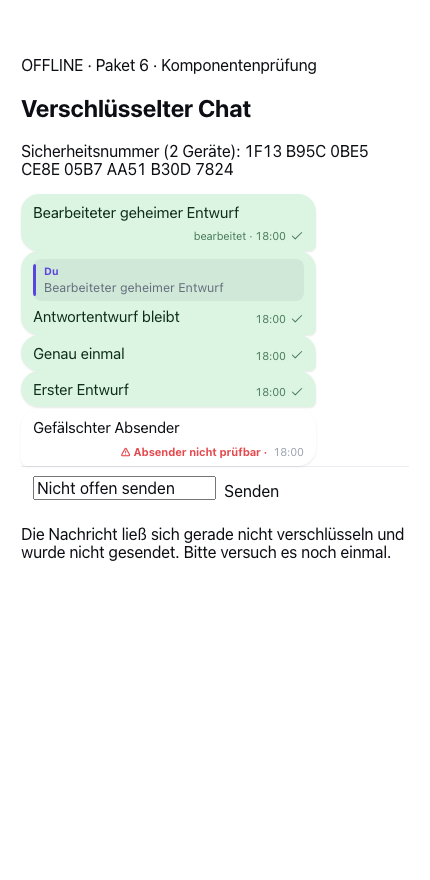
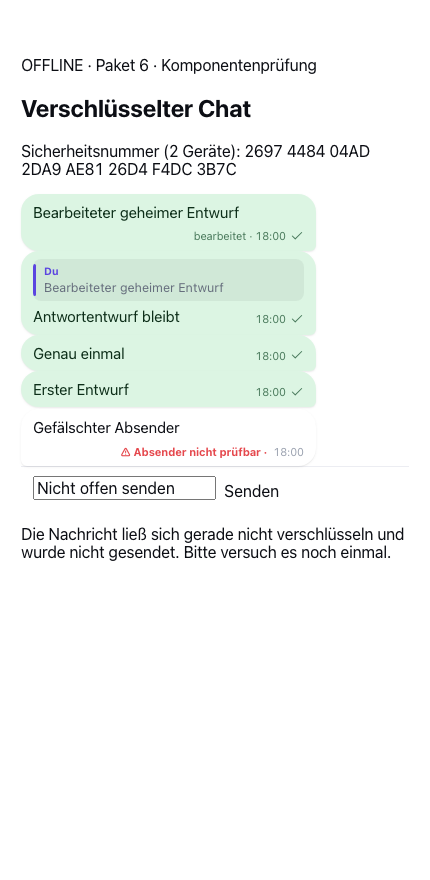
Zwischenstand: Krypto-Migration nach Abbruch und Weiterleitung vorvalidieren
Regressionen 7/7; Offlinegruppen 9/9; Browser 26/26. Live und native Gesamtabnahme weiterhin offen.

Changed region(s): [[0.0605, 0.1841, 0.5442, 0.2148], [0.5744, 0.1534, 0.8767, 0.1841]]

diff --git a/web/public/krypto.js b/web/public/krypto.js
@@ -72,9 +72,13 @@
     for (const id of konten) {
       if (!id) continue;
       const f = faecher(id);
-      if (localStorage.getItem(f.geheim)) continue;
-      localStorage.setItem(f.geheim, altGeheim);
-      if (altGeraet) localStorage.setItem(f.geraet, altGeraet);
+      const vorhanden = localStorage.getItem(f.geheim);
+      if (vorhanden && vorhanden !== altGeheim) continue;
+      if (!vorhanden) localStorage.setItem(f.geheim, altGeheim);
+      // Nach einem Abbruch zwischen beiden Schreibvorgängen das Paar ergänzen.
+      if (altGeraet && !localStorage.getItem(f.geraet)) {
+        localStorage.setItem(f.geraet, altGeraet);
+      }
     }
     localStorage.removeItem(ALT_SCHLUESSEL_FACH);
     localStorage.removeItem(ALT_GERAET_FACH);
@@ -133,7 +137,9 @@
       try {
         if (!kontoId) throw new Error('Kein Konto angemeldet');
         const f = faecher(kontoId);
-        if (!localStorage.getItem(f.geheim)) altbestandUebernehmen(kontoId);
+        if (!localStorage.getItem(f.geheim) || !localStorage.getItem(f.geraet)) {
+          altbestandUebernehmen(kontoId);
+        }
         let geheim = localStorage.getItem(f.geheim);
         if (!geheim) {
           geheim = Krypto.schluesselpaarErzeugen().geheim;

diff --git a/app/lib/aktionen.ts b/app/lib/aktionen.ts
@@ -2884,12 +2884,18 @@ export async function nachrichtWeiterleiten(
    * hat seine eigenen Geräte und bekommt damit eine eigene Chiffre. Ein
    * Insert über alle Ziele könnte nur eine einzige tragen.
    *
-   * Lässt sich ein Ziel nicht verschlüsseln, obwohl es müsste, wirft
-   * `fuerChatVerschliessen` (AR-05) und die übrigen Ziele bleiben aus — die
-   * Meldung nennt den Grund, statt dass eines davon still offen ankommt.
+   * Alle Ziele vor dem ersten Schreiben prüfen und verschließen. Scheitert
+   * ein Ziel an fehlenden Schlüsseln oder Mitgliedern, bleibt auch bei den
+   * vorherigen Zielen alles aus. Ein späterer Schreibfehler kann weiterhin
+   * einen Teilabschluss erzeugen; mehrere Requests sind keine Transaktion.
    */
+  const plan = [];
   for (const chat_id of chatIds) {
     const paket = await fuerChatVerschliessen(client, chat_id, ichId, text);
+    plan.push({ chat_id, paket });
+  }
+
+  for (const { chat_id, paket } of plan) {
     const { data: neue, error: fehler } = await client
       .from('messages')
       .insert({

diff --git a/app/lib/krypto.ts b/app/lib/krypto.ts
@@ -109,9 +109,13 @@ async function altbestandUebernehmen(kontoId: string): Promise<void> {
 
   for (const id of konten) {
     const f = faecher(id);
-    if (await SecureStore.getItemAsync(f.geheim)) continue;
-    await SecureStore.setItemAsync(f.geheim, altGeheim);
-    if (altGeraet) await SecureStore.setItemAsync(f.geraet, altGeraet);
+    const vorhanden = await SecureStore.getItemAsync(f.geheim);
+    if (vorhanden && vorhanden !== altGeheim) continue;
+    if (!vorhanden) await SecureStore.setItemAsync(f.geheim, altGeheim);
+    // Nach einem Abbruch zwischen beiden Schreibvorgängen das Paar ergänzen.
+    if (altGeraet && !(await SecureStore.getItemAsync(f.geraet))) {
+      await SecureStore.setItemAsync(f.geraet, altGeraet);
+    }
   }
   await SecureStore.deleteItemAsync(ALT_SCHLUESSEL_FACH);
   await SecureStore.deleteItemAsync(ALT_GERAET_FACH);

diff --git a/berichte/Paket-6-Aufraeumen-11-11-2026.md b/berichte/Paket-6-Aufraeumen-11-11-2026.md
@@ -1,0 +1,18 @@
+# Paket 6 – Aufräumfortsetzung 11.11.2026 nachmittags
+
+Aktueller main-Stand ee11974 im eigenen Zweig übernommen (Merge 368f338).
+Drei unabhängige Unteragenten prüften Krypto, Nebenwege und Prüfharness.
+
+## Korrigiert und nachgewiesen
+
+- App und Browser: Abbruch zwischen Geheimschlüssel- und Gerätekennungsschreiben verlor die Altgerätekennung. Migration ergänzt jetzt nur bei gleichem Altgeheimnis das fehlende Gerät; unabhängige Schlüssel bleiben erhalten. Regression 4/4 Szenarien, jeweils alte Chiffre tatsächlich entschlüsselt.
+- App-Weiterleitung: Ein ungültiges späteres Ziel erzeugte bereits Nachrichten an frühere Ziele. Jetzt alle Kryptopakete vor erstem INSERT planen. Regression 3/3, darunter zwei negative Gegenproben und entschlüsselbare unterschiedliche Chiffren für gültige Ziele. Mehrere Schreibrequests bleiben bei späterem Datenbankfehler nicht atomar.
+- Offlineabnahme nach Korrekturen 9/9 Gruppen; Browser 26/26. Kein Livezugriff in diesem Abschnitt. AST-Graph lokal aktualisiert, kein LLM-Aufruf.
+
+## Neue offene Befunde
+
+- Kontakt mit optionaler Nachricht kann bei Sende-/Kryptofehler bereits gespeichert sein; Wiederholung wird als schon vorhanden abgelehnt (App und Server). Reproduziert offline; noch keine Kompensation implementiert.
+- Prüfharness: Signalexit kann Erfolg melden; native Recovery liest falsches Journal; früher Abbruch ohne Chat-ID wird nicht bereinigt; Kontaktbaseline bisher nur im RAM. Korrekturen in Vorbereitung.
+- Erweiterte Live-/native Abnahme, Nebenwege, Angriffe und vollständiger Gesamtlauf bleiben offen; siehe Paket-6-Fortsetzung-11-11-2026.md.
+
+Kein Schema, main-Schreiben, Push oder Deploy. Sicherungszweig unverändert.
